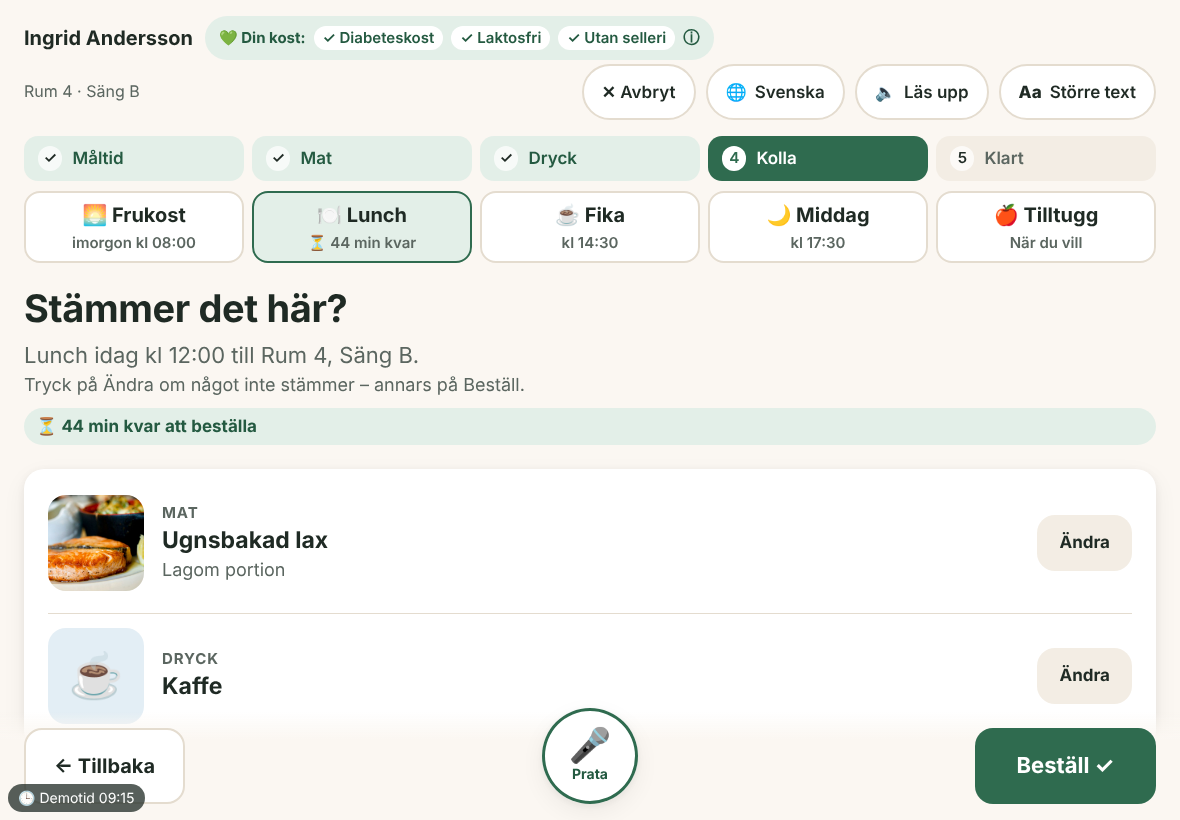
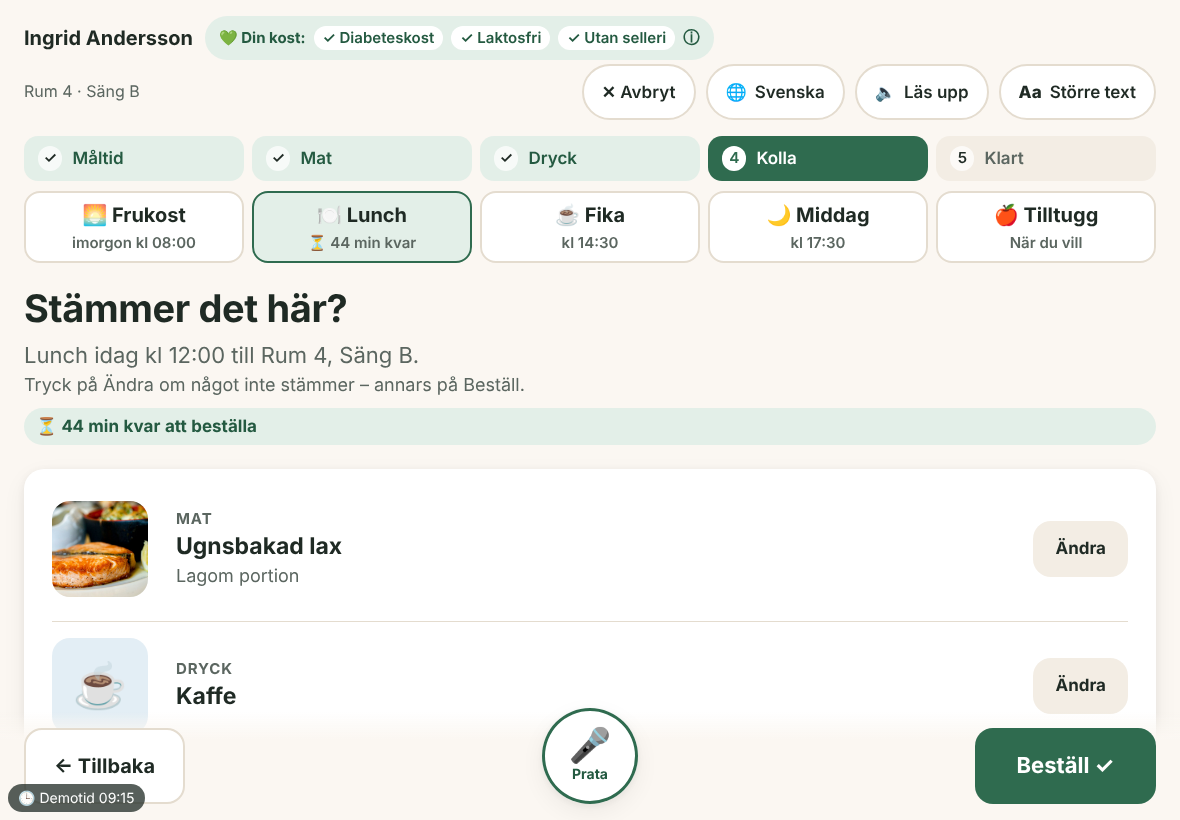
Stämmer det här: mer luft mellan bild och text
- 28 px mellan bilden och texten för mat och dryck (20 px på mobil),
  och lite mer luft i kortets kanter.

Claude-Session: https://claude.ai/code/session_01W2bM9vS6XV6jr7pPMAABKn

diff --git a/src/app/globals.css b/src/app/globals.css
@@ -1286,14 +1286,15 @@ html[data-text-size="stor"] .dish-body p {
 .summary {
   display: grid;
   gap: 8px;
-  padding: 12px 24px;
+  padding: 16px 28px;
 }
 
+/* Luft mellan bilden och texten, så att de inte känns ihopklistrade. */
 .summary-row {
   display: flex;
   align-items: center;
-  gap: 18px;
-  padding: 14px 0;
+  gap: 28px;
+  padding: 16px 0;
 }
 
 .summary-row + .summary-row {
@@ -2071,4 +2072,6 @@ html[data-text-size="stor"] .dish-body p {
   .dish-body { padding: 10px 14px; }
   .dish-body h2 { font-size: 1em; }
   .dish-body p { display: none; }
+  .summary { padding: 12px 18px; }
+  .summary-row { gap: 20px; }
 }
